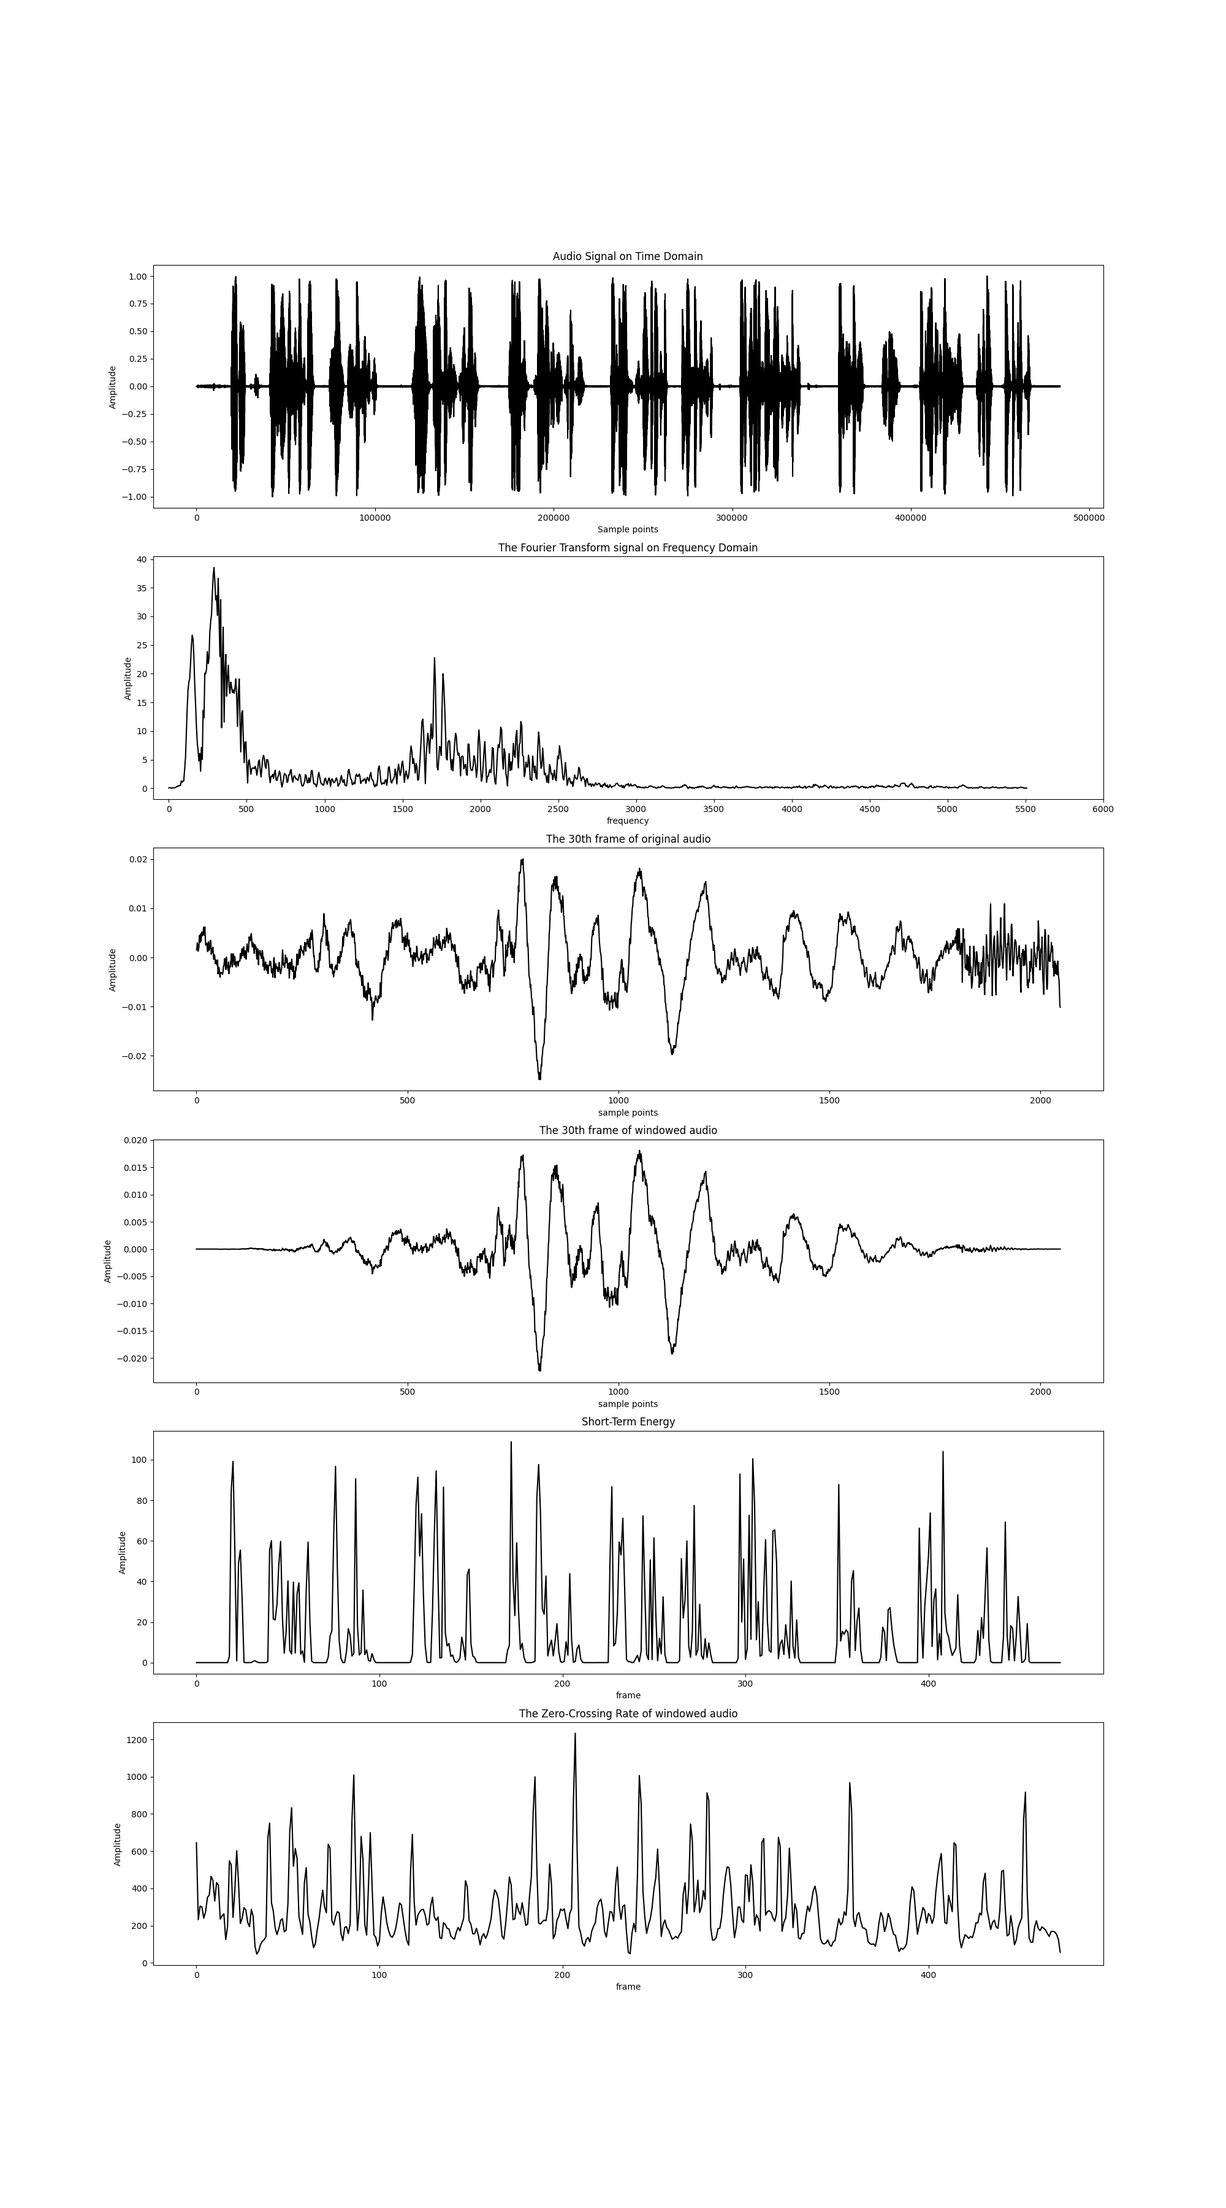
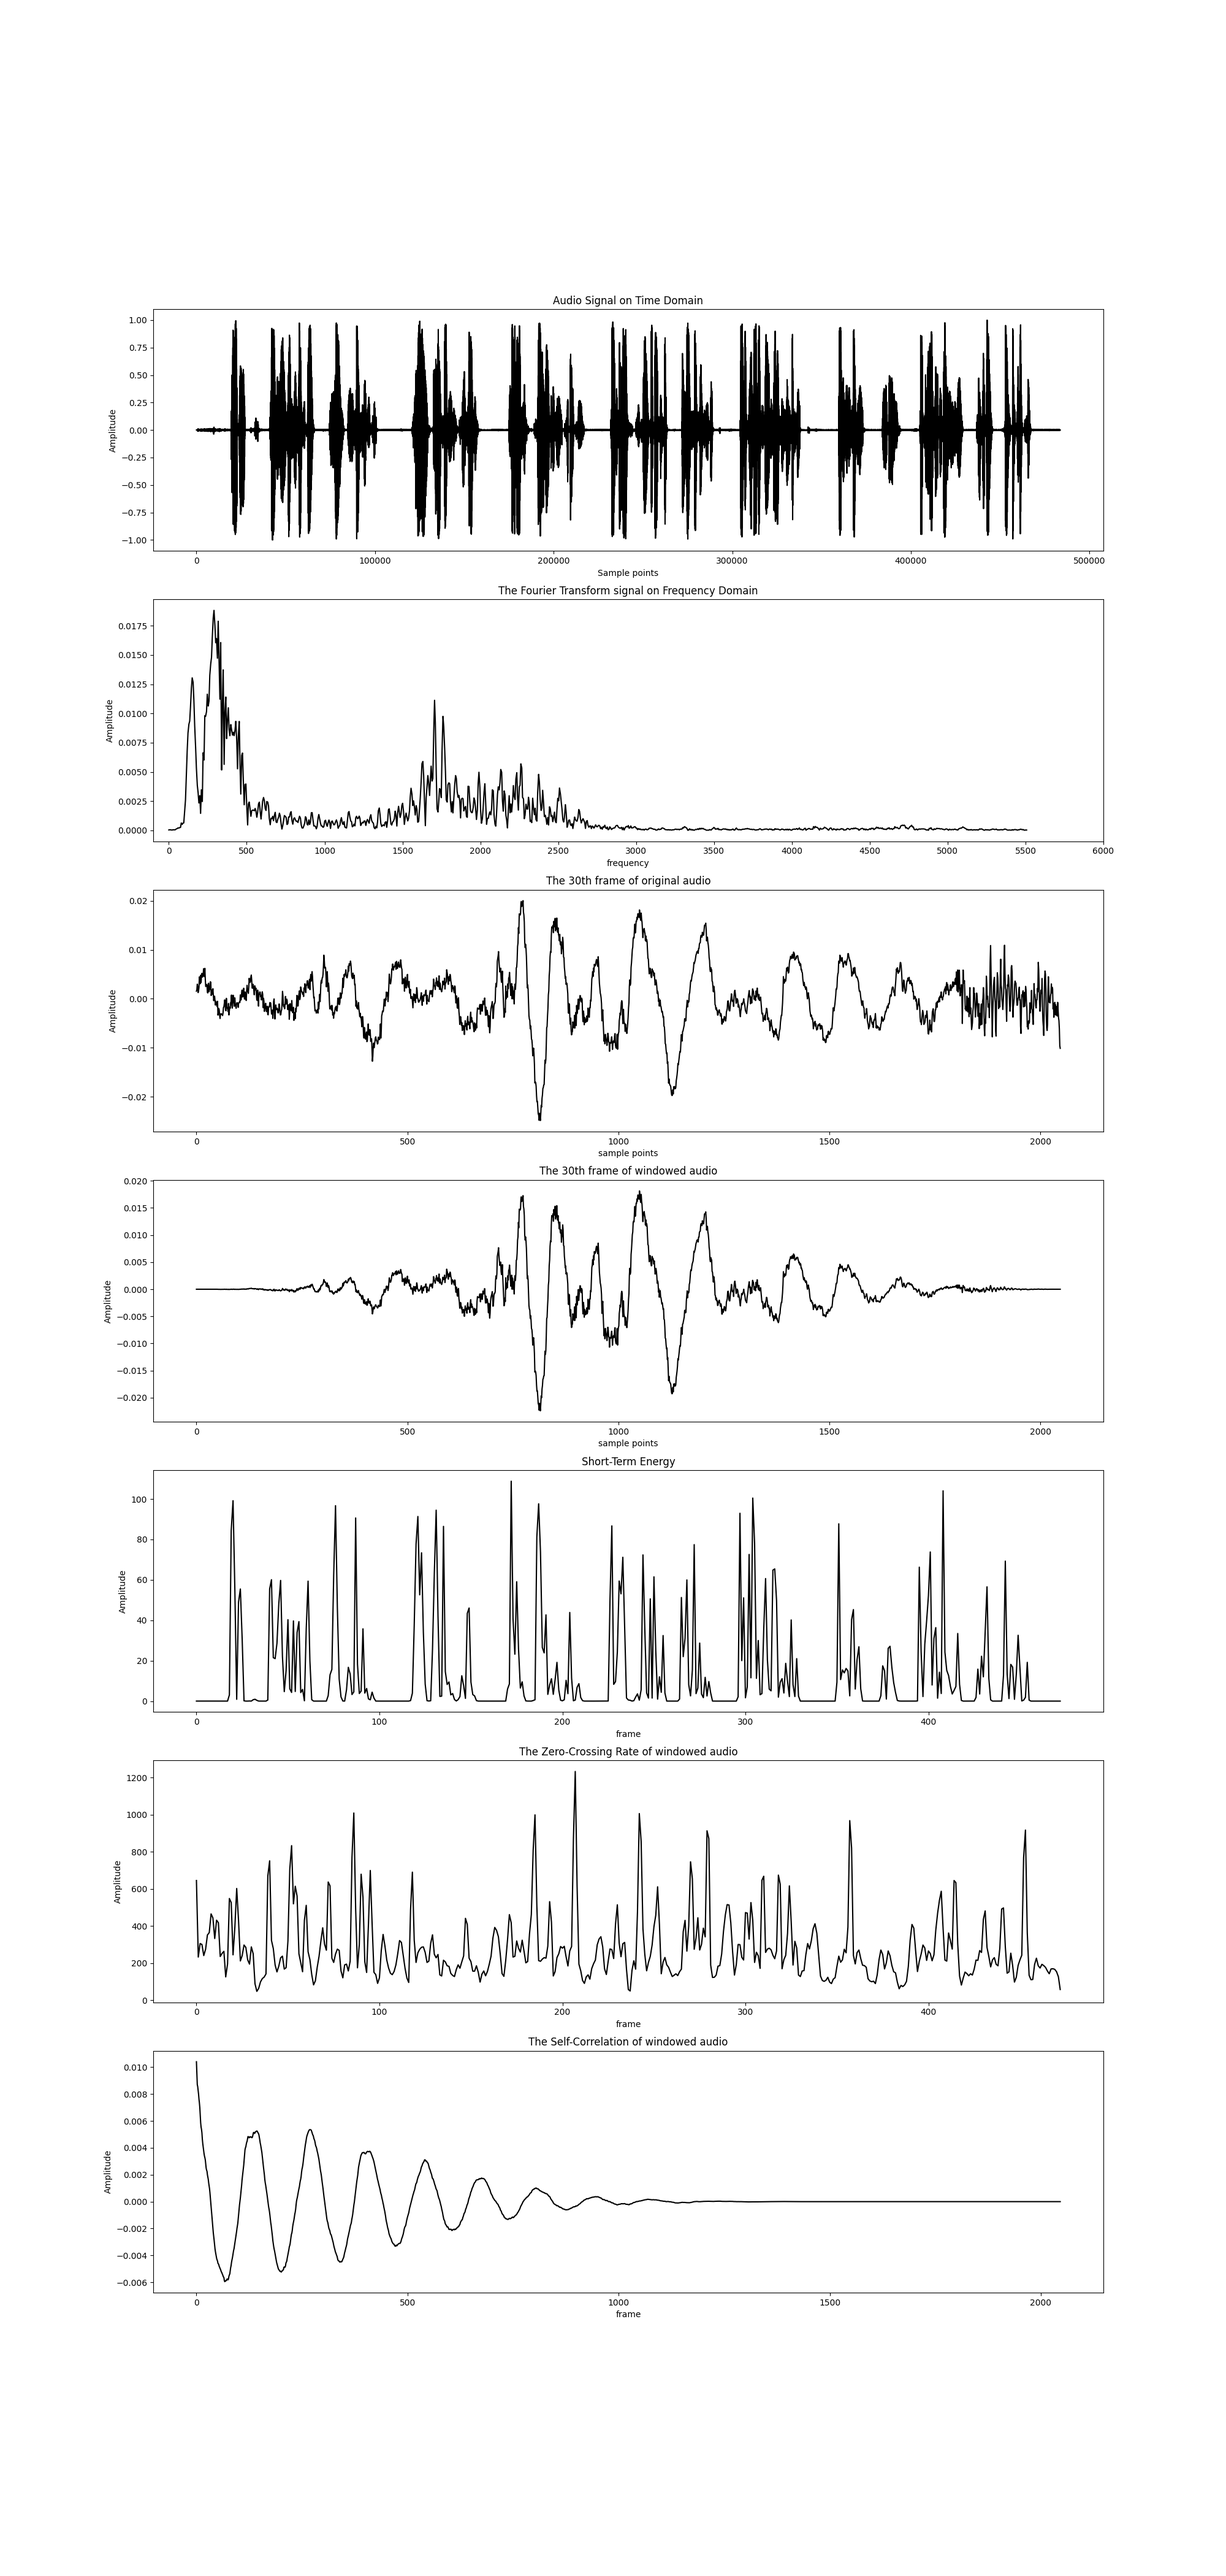
Update

diff --git a/Utils.py b/Utils.py
@@ -41,8 +41,6 @@ def de_pre_emphasis(audio, alpha):
     for i in range(len(audio) - 1, 1, -1):
         audio[i] += alpha * audio[i - 1]
     audio[0] = audio[0] / (1 - alpha)
-    # for i in range(1, len(audio), 1):
-    #     audio[i] += alpha * audio[i - 1]
     return audio
 
 
@@ -55,13 +53,18 @@ def pre_emphasis(audio, alpha):
 
 
 # Self-Correlation
-def self_correlation(frames, k):
+def self_correlation(frames):
+    print("len", len(frames))
     ret = []
     for i in range(0, len(frames), 1):
-        tmpSum = 0
-        for j in range(0, len(frames[i]) - k, 1):
-            tmpSum += frames[i][j] * frames[i][j + k]
-        ret.append(tmpSum)
+        print(i)
+        tmpRet = []
+        for k in range(0, len(frames[i]) - 1, 1):
+            tmpSum = 0
+            for j in range(0, len(frames[i]) - k, 1):
+                tmpSum += frames[i][j + k] * frames[i][j]
+            tmpRet.append(tmpSum)
+        ret.append(tmpRet)
     return ret
 
 
@@ -136,29 +139,33 @@ def fourier_transform(frames, frameSize, sampleRate):
         for j in range(0, len(frames[i]), 1):
             fft_signal.append(frames[i][j])
         if len(fft_signal) > 0:
-            fft_signal = fft(np.array(fft_signal))
-            # Cut half
+            fft_signal = np.abs(fft(np.array(fft_signal)))
+            # Cut half, and regularize the amplitude
             cut_fft_signal = []
             for j in range(0, int(len(fft_signal) / 2), 1):
-                cut_fft_signal.append(fft_signal[j])
+                # Regularize the amplitude
+                if j == 0:
+                    cut_fft_signal.append(fft_signal[j] / len(fft_signal))
+                else:
+                    cut_fft_signal.append(fft_signal[j] / int(len(fft_signal / 2)))
             fft_signals.append(np.array(cut_fft_signal))
-    return np.abs(np.array(fft_signals)), x
+    return np.array(fft_signals), x
 
 
 # Draw audio time domain diagram
 def draw_time_domain_diagram(audio, energys, ori_frame, frame, ZCR, SCC, fft_signal, fft_x):
     # Figure size
-    plt.rcParams['figure.figsize'] = (20.0, 36.0)
+    plt.rcParams['figure.figsize'] = (20.0, 42.0)
 
     # Audio signal
-    plt.subplot(611)  # row col pos
+    plt.subplot(711)  # row col pos
     x = np.arange(len(audio))
     plt.plot(x, audio, 'black')
     plt.title("Audio Signal on Time Domain")
     plt.xlabel("Sample points")
     plt.ylabel("Amplitude")
     # Fourier Transform
-    plt.subplot(612)
+    plt.subplot(712)
     # X-axis transform in Fast Fourier Transform
     plt.plot(fft_x, fft_signal, 'black')
     plt.title("The Fourier Transform signal on Frequency Domain")
@@ -169,28 +176,28 @@ def draw_time_domain_diagram(audio, energys, ori_frame, frame, ZCR, SCC, fft_sig
     ax.xaxis.set_major_locator(x_major_locator)
     plt.xlim(-100, 6000)
     # Original 30th frame
-    plt.subplot(613)
+    plt.subplot(713)
     x = np.arange(len(ori_frame))
     plt.plot(x, ori_frame, 'black')
     plt.title("The 30th frame of original audio")
     plt.xlabel("sample points")
     plt.ylabel("Amplitude")
     # Windowed 30th frame
-    plt.subplot(614)
+    plt.subplot(714)
     x = np.arange(len(frame))
     plt.plot(x, frame, 'black')
     plt.title("The 30th frame of windowed audio")
     plt.xlabel("sample points")
     plt.ylabel("Amplitude")
     # Short-Term Energy
-    plt.subplot(615)
+    plt.subplot(715)
     x = np.arange(len(energys))
     plt.plot(x, energys, 'black')
     plt.title("Short-Term Energy")
     plt.xlabel("frame")
     plt.ylabel("Amplitude")
     # Zero-Crossing Rate
-    plt.subplot(616)
+    plt.subplot(716)
     x = np.arange(len(ZCR))
     plt.plot(x, ZCR, 'black')
     plt.title("The Zero-Crossing Rate of windowed audio")
@@ -198,11 +205,12 @@ def draw_time_domain_diagram(audio, energys, ori_frame, frame, ZCR, SCC, fft_sig
     plt.ylabel("Amplitude")
 
     # Self-Correlation
-    # plt.subplot(616)
-    # plt.plot(SCC)
-    # plt.title("The Self-Correlation of windowed audio")
-    # plt.xlabel("frame")
-    # plt.ylabel("Amplitude")
+    plt.subplot(717)
+    x = np.arange(len(SCC[0]))
+    plt.plot(x, SCC[0], 'black')
+    plt.title("The Self-Correlation of windowed audio")
+    plt.xlabel("frame")
+    plt.ylabel("Amplitude")
 
     plt.savefig("./output/output")
     plt.show()

diff --git a/Project1/Detection.py b/Project1/Detection.py
@@ -9,7 +9,6 @@ def main():
     # Input
     audio, sampleRate, duration = get_input("./input/input.wav")
     # Regularization
-    print(sampleRate)
     audio = audio / np.max(audio)
     # Divide frames and add windows
     ori_frames, frames = divide_frames(audio, frameSize, frameShift)
@@ -20,7 +19,8 @@ def main():
     # Calculate Zero-Crossing Rate
     ZCR = cal_zero_crossing_rate(frames)
     # Calculate Self-Correlation
-    SCC = self_correlation(frames, selfCorrelationCoefficient)
+    SCC = self_correlation(frames)
+    print("Self Correlation completed!")
     # Draw results
     draw_time_domain_diagram(audio, energies, ori_frames[29], frames[29], ZCR, SCC, fft_signals[53], fft_x)
 

diff --git a/README.md b/README.md
@@ -26,6 +26,7 @@
 
 ## 3. 自相关：较好去除噪声，表示一个信号和延迟$\Delta t$点后该信号本身的相似性
 
+- **语音的自相关函数**：$R(l) = \sum_{n=0}^{N-l+1} S_w(n+l)S_w(n)$ ，当$l=nT, n=1, 2,...$时，R(l)函数接近局部最大值。
 - 自相关函数在分析随机信号时候是非常有用的。我们在信号与系统中学过，通过傅里叶变换可以将一个时域信号转变为频域，这样可以更简单地分析这个信号的频谱。但这有个前提，那就是我们分析的信号是确定信号，即无噪声的信号（sin就是sin，cos就是cos）。而在真正的通信中，我们的传输环境是非常复杂的，充满了噪声。很多时候噪声的分布服从高斯分布（噪声幅度低的概率大，噪声幅度高的概率小）我们称这种噪声叫高斯白噪声（其对应的信道叫AWGN信道）。在一个信号传输中，这种噪声会叠加在信号上，那接收端我们收到的就不是一个确定信号，而是一个随时间变化的信号。即使我们信号发送端始终发送同一个信号，但由于每次叠加的噪声不同，接收端收到的信号也不同，此时我们管这种信号叫随机信号。随机信号直接进行傅里叶变换后，在频域会产生非常多的噪声频带，如果在噪声较大、信号较小的情况下，噪声的频谱甚至会淹没原信号的频谱，从而让我们无法分析。
 - 而自相关函数的定义我们都知道，Rx(Δt)=E[x(t)*x(t+Δt)]，我们会发现，**如果同一个信号x(t)进行自相关后，还是自己，而不同的信号进行自相关后，数值会变得很小。**不论Δt取多少，在发送端发出的信号始终不变，那么确定信号经过自相关运算后就保存了下来，而由于噪声每一时刻都不同，自相关后噪声就趋近于0了。然后我们又知道维纳-辛钦定理，自相关函数的傅里叶变换是功率谱，这样我们又一次将时域信号转换到频域进行分析，同时还滤除了噪声，唯一的不同只是原来的确定信号时域纵轴是电压V，现在的功率谱纵轴是功率W，二者成平方关系罢了。
 - 短时自相关函数主要应用于**端点检测和基音的提取**，在韵母基因频率整数倍处将出现峰值特性，通常根据除R(0)外的第一峰值来估计基音，而在声母的短时自相关函数中看不到明显的峰值。
@@ -58,3 +59,6 @@
 
 - [FFT变换后，坐标单位是什么？](https://blog.csdn.net/guoruijiushiwo/article/details/78003632)**假设采样频率为 1M , 采样点数为1024 ,那么横坐标第N个点代表的频率 X(N) = (1M / 1024) * N**
 - 可以直接对每一帧进行`FFT`操作（**短时频谱**），再利用上述公式进行横坐标（频率）的设置。
+- 左侧第一个竖线的纵坐标值，是 **从原始信号中提取出来的0Hz**对应的信号强度（信号振幅），又称**直流分量**。它对应的信号振幅为 **当前值/FFT的采样点数N**
+- 直流分量以外的分量所对应的信号振幅为**当前值/（采样点数N / 2）**
+- 

diff --git a/隐马尔可夫模型.md b/隐马尔可夫模型.md
@@ -1,0 +1,3 @@
+# SJTU_CS249_Language_Intelligence 隐马尔可夫模型
+
+- 
